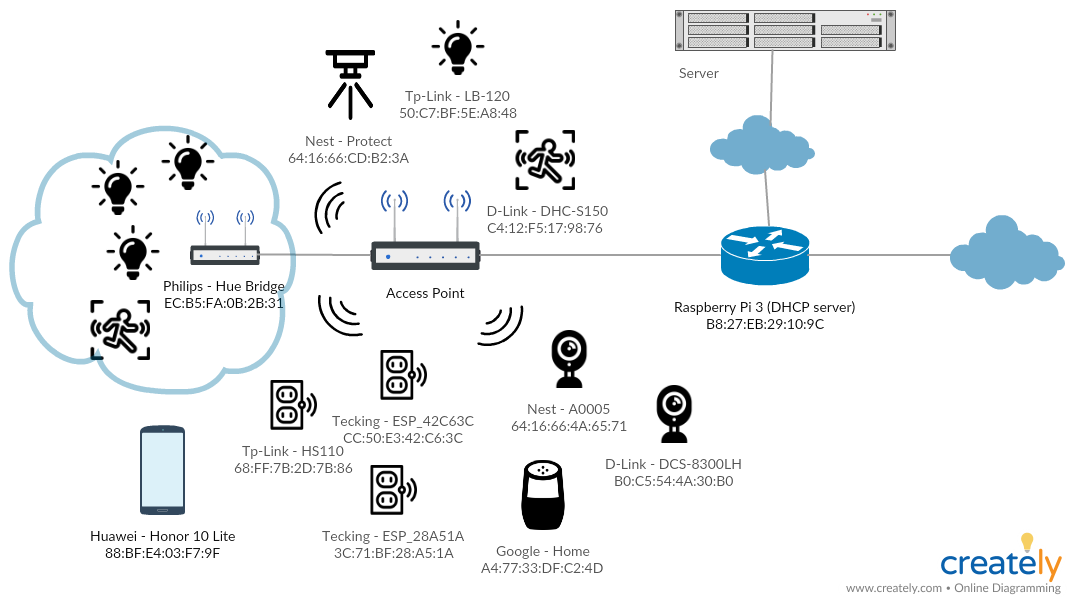
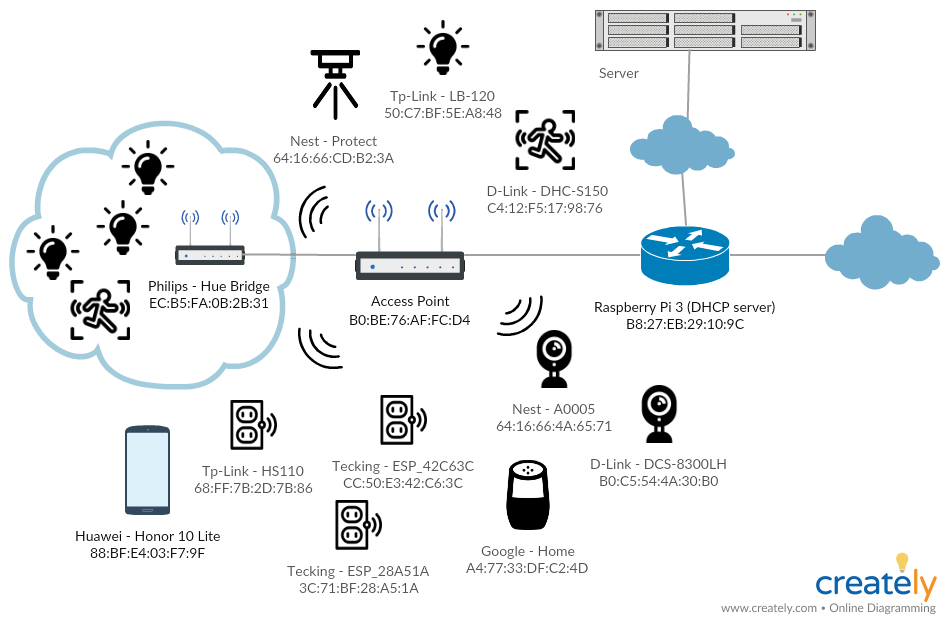
Adding description of the project

Changed region(s): [[0.0, 0.0, 1.0, 0.9536], [0.7632, 0.8642, 1.0, 0.9834], [0.3663, 0.4768, 0.4884, 0.5662]]

diff --git a/Web_Page/about.php b/Web_Page/about.php
@@ -36,9 +36,18 @@
         </div>
     </nav>
 </nav>
-        
-<img src="statics/network_diagram.png" alt="Network diagram" class="img-fluid">
 
+<!-- Page content -->
+<div class="container" id="content">
+  <p>
+    Datasec4iot is a network created to capture and study the packages sent by IoT devices. It is deployed in the coffee room of the network’s department in Télécom SudParis, Evry, France.
+
+    It is composed of fourteen IoT devices, a Raspberry pi 3, an access point, and a server. The devices include a mobile phone and a Google Home, that allows a variety of interactions with the system, from single interactions, to schedule actions, use voice commands, and trigger actions based on sensors measures. 
+
+    The Raspberry pi 3 is acting as a DHCP server, that assigns private IP addresses to the devices, captures the packets sent and received by them, and sends the raw .pcap files generated by the capturer to a server to store them. 
+  </p>
+  <img src="statics/network_diagram.png" alt="Network diagram" class="img-fluid">
+</div>
 
 <script src="http://ajax.googleapis.com/ajax/libs/jquery/1.6/jquery.min.js" type="text/javascript"></script>
 <script src="http://ajax.googleapis.com/ajax/libs/jqueryui/1.8/jquery-ui.min.js" type="text/javascript"></script>
